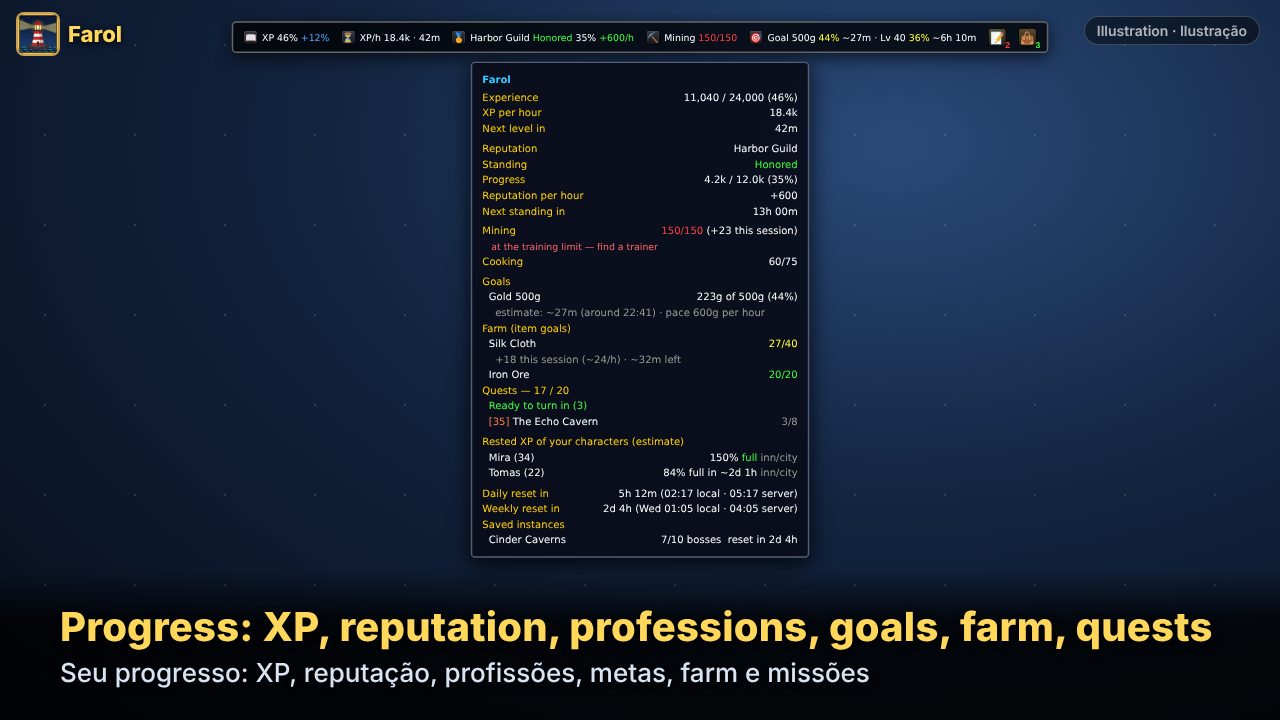
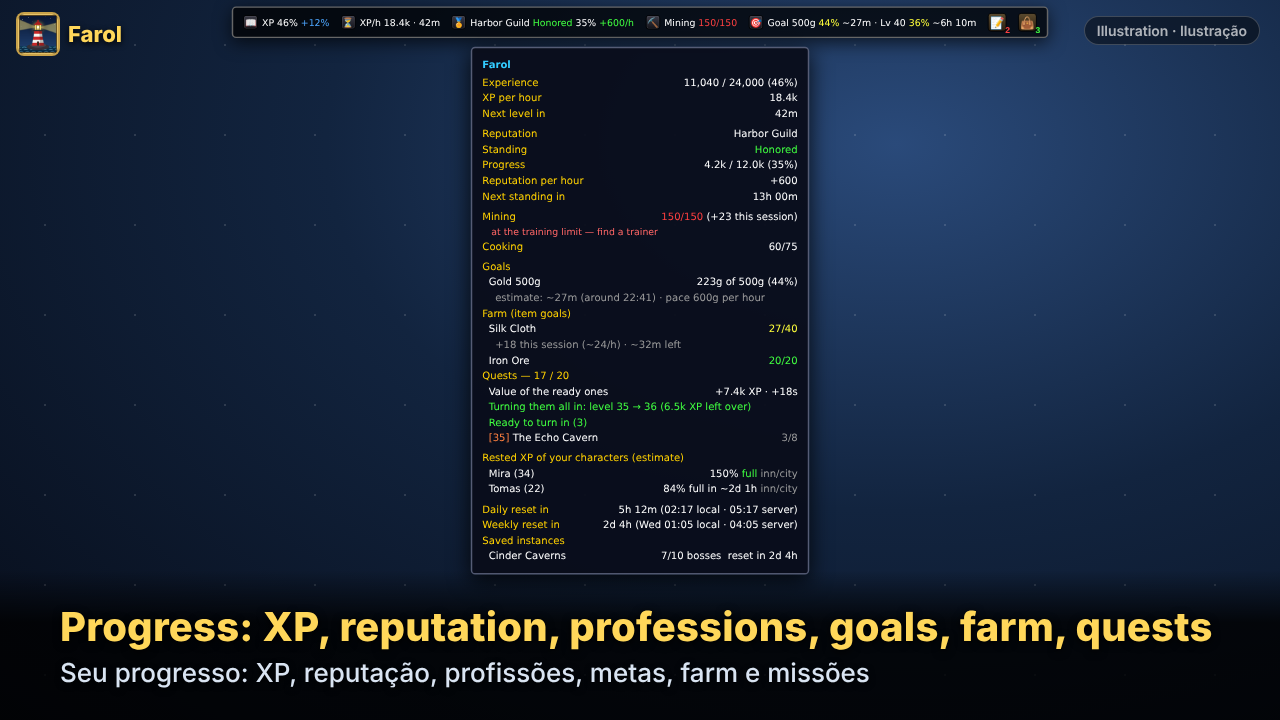
3.23.0: value of the ready quests
- New option (Warnings tab, off): the Quests item shows the XP of the quests ready to
  turn in, and its tooltip the total XP and gold, each reward (most XP first), whether
  turning them all in levels you up, and the XP of quests in progress.
- New optional warning (off): turning in the ready quests levels you up (once per level).
- Rewards read with GetQuestLogRewardXP/Money by quest ID (confirmed in WoW Forever).
- Warnings tab help strip moved down; image 08 updated; tests for values, level-up,
  warning, broken values, old client, English.

Claude-Session: https://claude.ai/code/session_01BGNd8jLBZJw5iNs8DwdX47

Changed region(s): [[0.1562, 0.0, 0.8438, 0.7944], [0.4688, 0.5806, 0.625, 0.7944]]

diff --git a/assets/curseforge/make_pages.py b/assets/curseforge/make_pages.py
@@ -238,6 +238,8 @@ ptip = """<div class="tip" style="width:470px"><div style="color:#33ccff;font-we
 <div class="row dim"><span>&nbsp;&nbsp;&nbsp; +18 this session (~24/h) · ~32m left</span><span></span></div>
 <div class="row"><span>&nbsp; Iron Ore</span><span class="g">20/20</span></div>
 <div class="k">Quests — 17 / 20</div>
+<div class="row"><span>&nbsp; Value of the ready ones</span><span>+7.4k XP · +18s</span></div>
+<div class="row"><span>&nbsp; <span class="g">Turning them all in: level 35 → 36 (6.5k XP left over)</span></span><span></span></div>
 <div class="row"><span>&nbsp; <span class="g">Ready to turn in (3)</span></span><span></span></div>
 <div class="row"><span>&nbsp; <span style="color:#ff8040">[35]</span> The Echo Cavern</span><span class="dim">3/8</span></div>
 <div style="height:6px"></div>

diff --git a/assets/curseforge-description.md b/assets/curseforge-description.md
@@ -14,7 +14,7 @@
 > **You decide: almost everything starts off.** Only the basics are on the first time (7 of 30 bar items: FPS, latency, coordinates, zone, Hearthstone, durability, gold; the durability, bags, talents, spell rank and profession warnings; the session summary in your own chat; the minimap button). **Every new feature arrives turned off** — updating never turns anything on by itself. Right-click the bar (or `/farol menu`) to choose; after an update, Farol lists what is new once and says where to turn it on.
 
 ### Info bar — pick what you see
-FPS · Latency · Memory · Coordinates · Zone · Speed · **Hearthstone: where it is bound & cooldown** · Durability · Bags · **Junk value (gray items)** · **Ammo & reagents (your limits)** · Gold (**+ total and rested XP of all your characters**) · Session gold · **Gold per hour** · XP & rested · **XP per hour & time to level** · **Reputation (standing, progress, rep/hour)** · **Professions (level / training limit)** · **Gold & level goals with a time estimate** · **Farm goals: items to gather, pace per hour & estimate** · **Quest log: how many fit, ready to turn in, warning before it fills up** · **Completed quests of each character** · **Dungeon & raid run log (time, XP, gold, loot, deaths)** · Clock (local or server) · **Daily & weekly reset countdown + saved instances (raid lockouts)** · **Daily & weekly tasks** · **Notes (notepad)** · Session time · Friends online · Guild online
+FPS · Latency · Memory · Coordinates · Zone · Speed · **Hearthstone: where it is bound & cooldown** · Durability · Bags · **Junk value (gray items)** · **Ammo & reagents (your limits)** · Gold (**+ total and rested XP of all your characters**) · Session gold · **Gold per hour** · XP & rested · **XP per hour & time to level** · **Reputation (standing, progress, rep/hour)** · **Professions (level / training limit)** · **Gold & level goals with a time estimate** · **Farm goals: items to gather, pace per hour & estimate** · **Quest log: how many fit, ready to turn in (and how much XP they give — enough to level up?), warning before it fills up** · **Completed quests of each character** · **Dungeon & raid run log (time, XP, gold, loot, deaths)** · Clock (local or server) · **Daily & weekly reset countdown + saved instances (raid lockouts)** · **Daily & weekly tasks** · **Notes (notepad)** · Session time · Friends online · Guild online
 
 - **Right-click** the bar (or `/farol menu`): a **tabbed menu** — Bar (items in groups), Warnings, Tools, General — to tick the items you want, and **choose their order** with [▲]/[▼] arrows. **Presets** (Basic, Leveling, Gold & farm, Dungeons) set up the bar in one click (with Undo); a **gear** next to an item opens its settings; a strip explains the item under the mouse.
 - **Up to 3 bars**, each with its own items, position, appearance and order (menu → Bar 2 / Bar 3 → Show).
@@ -77,7 +77,7 @@ English and Brazilian Portuguese (follows your client, or `/farol lang en|pt`).
 > **Você decide: quase tudo vem desligado.** Na primeira vez só o básico vem ligado (7 de 30 itens da barra: FPS, latência, coordenadas, zona, Pedra de Regresso, durabilidade, ouro; os avisos de durabilidade, bolsas, talentos, graus de magia e profissões; o resumo da sessão no seu próprio chat; o botão do minimapa). **Toda função nova chega desligada** — atualizar nunca liga nada sozinho. Clique com o botão direito na barra (ou `/farol menu`) para escolher; depois de uma atualização, o Farol lista as novidades uma vez e diz onde ligar.
 
 ### Barra de informações — você escolhe o que aparece
-FPS · Latência · Memória · Coordenadas · Zona · Velocidade · **Pedra de Regresso: onde está vinculada e recarga** · Durabilidade · Bolsas · **Valor do lixo (itens cinzentos)** · **Munição e reagentes (seus limites)** · Ouro (**+ total e descanso de todos os seus personagens**) · Ouro da sessão · **Ouro por hora** · XP e descansado · **XP por hora e tempo até o próximo nível** · **Reputação (nível, progresso, rep/hora)** · **Profissões (nível / limite do treinamento)** · **Metas de ouro e de nível com estimativa de tempo** · **Metas de farm: itens para juntar, ritmo por hora e estimativa** · **Diário de missões: quantas cabem, prontas para entregar e aviso antes de encher** · **Missões concluídas de cada personagem** · **Registro de masmorras e raides (tempo, XP, ouro, saques, mortes)** · Horário (local ou do servidor) · **Contagem até o reset diário e semanal + instâncias salvas (bloqueios de raide)** · **Tarefas diárias e semanais** · **Anotações (bloco de notas)** · Tempo de sessão · Amigos online · Guilda online
+FPS · Latência · Memória · Coordenadas · Zona · Velocidade · **Pedra de Regresso: onde está vinculada e recarga** · Durabilidade · Bolsas · **Valor do lixo (itens cinzentos)** · **Munição e reagentes (seus limites)** · Ouro (**+ total e descanso de todos os seus personagens**) · Ouro da sessão · **Ouro por hora** · XP e descansado · **XP por hora e tempo até o próximo nível** · **Reputação (nível, progresso, rep/hora)** · **Profissões (nível / limite do treinamento)** · **Metas de ouro e de nível com estimativa de tempo** · **Metas de farm: itens para juntar, ritmo por hora e estimativa** · **Diário de missões: quantas cabem, prontas para entregar (e quanto XP elas dão — dá para subir de nível?), aviso antes de encher** · **Missões concluídas de cada personagem** · **Registro de masmorras e raides (tempo, XP, ouro, saques, mortes)** · Horário (local ou do servidor) · **Contagem até o reset diário e semanal + instâncias salvas (bloqueios de raide)** · **Tarefas diárias e semanais** · **Anotações (bloco de notas)** · Tempo de sessão · Amigos online · Guilda online
 
 - **Clique direito** na barra (ou `/farol menu`): um **menu em abas** — Barra (itens em grupos), Avisos, Ferramentas, Geral — para marcar os itens que quiser e **escolher a ordem** com as setas [▲]/[▼]. **Pacotes prontos** (Básico, Upando, Ouro e farm, Masmorras) montam a barra com um clique (com Desfazer); a **engrenagem** ao lado de um item abre a configuração dele; uma faixa explica o item sob o mouse.
 - **Até 3 barras**, cada uma com itens, posição, aparência e ordem próprios (menu → Barra 2 / Barra 3 → Mostrar).

diff --git a/CLAUDE.md b/CLAUDE.md
@@ -111,6 +111,12 @@ personalizável, alarmes, janela de saques e avisos. Publicado no CurseForge: <h
   `GetQuestObjectives`, `GetMaxNumQuestsCanAccept`); antigos `GetQuestLogTitle` — a ordem muda: quando o 4º valor é
   número (grupo sugerido do 3.3.5a), categoria/fechada/completa andam uma posição; completa = 1 (pronta) ou -1 (falhou).
   Limite: `GetMaxNumQuestsCanAccept` → `MAX_QUESTLOGQUESTS` → 20. Nunca abrir categorias fechadas (só avisar no tooltip).
+- **Valor das missões prontas (3.23):** `GetQuestLogRewardXP(id)` / `GetQuestLogRewardMoney(id)` (cobre) pelo ID de cada
+  missão do diário — confirmado no WoW Forever com `/run` (ex.: 5350 XP, 1800 cobre; sem moedas = 0). `Quests.Value`
+  soma as prontas e compara com `UnitXPMax − UnitXP` ("nível 23 → 24 (sobram X XP)"; o XP do nível seguinte o jogo não
+  informa, então não mostramos %). Opções `warnings.questValue` (barra/tooltip) e `warnings.questLevel` (aviso 1x por
+  nível), ambas desligadas. Clientes antigos: sem recompensa por ID (pedir a recompensa exigiria selecionar a missão
+  no diário, `SelectQuestLogEntry`, proibido).
 - Pedra de Regresso: item 6948; lugar com `GetBindLocation`; recarga com `C_Container.GetItemCooldown` (modernos) ou
   `GetItemCooldown` (antigos) — duração ≤ 1,5 s é a recarga global e não conta. Sem lugar informado, o item some da barra.
 - Item da barra **ausente** nos dados salvos (item novo para quem já usa) vem **desligado**; o padrão de `ITEM_DEFAULTS`
@@ -275,7 +281,7 @@ assets/             ícones, texto do CurseForge, imagens de divulgação (asset
 ## Testes
 
 ```
-lua5.1 tests/run.lua        # ~730 testes (2 passadas); deve terminar com "0 failed"
+lua5.1 tests/run.lua        # ~740 testes (2 passadas); deve terminar com "0 failed"
 ```
 
 - **Duas passadas (3.18):** a 1ª com o simulador "de livro"; a 2ª, **forever-real** (`Mock.REAL`), com reino `""` e

diff --git a/CHANGELOG.md b/CHANGELOG.md
@@ -2,6 +2,16 @@
 
 All notable changes to Farol. Versions follow the `## Version:` line of the `.toc` files.
 
+## 3.23.0 — Value of the ready quests
+- New option **XP and gold of ready ones** (Warnings tab, off by default): the Quests bar item shows the XP of the
+  quests ready to turn in (`5 ready (+7.4k XP)`) and its tooltip shows the total XP and gold, each ready quest with
+  its reward (most XP first), whether turning them all in levels you up ("level 23 → 24 (6.5k XP left over)", or how
+  much is missing) and the XP of the quests in progress.
+- New optional warning **Ready ones level you up** (off by default): once per level.
+- Rewards read with `GetQuestLogRewardXP` / `GetQuestLogRewardMoney` for each quest of the log (modern clients),
+  confirmed in WoW Forever with a `/run` in game. Read-only; nothing is sent. No level-up line at max level.
+- Warnings tab: the help strip moved down to make room. Image 08 updated. 744 tests (2 passes).
+
 ## 3.22.0 — Notepad
 - New **notepad** for the whole account (`/farol notes`, Menu > Tools > Notes...): up to 10 notes, each with a title
   (up to 40 letters) and a multi-line text (up to 500 letters), saved as you type, with a **done** checkbox. Done

diff --git a/README.pt-BR.md b/README.pt-BR.md
@@ -340,6 +340,13 @@ cheio). O tooltip lista primeiro as **prontas para entregar** e depois as **em a
 (`/farol aviso prontas on`; no máximo a cada 5 minutos). O Farol só **lê** o diário: nunca aceita, entrega, abandona ou
 compartilha missões, e não abre categorias fechadas do diário. `/farol aviso status` mostra o que foi lido.
 
+**Quanto valem as missões prontas (desde a 3.23, desligado):** marque **XP e ouro das prontas** na aba Avisos e a barra
+mostra `Missões 8/40 · 5 prontas (+7.4k XP)`; o tooltip ganha o total de XP e ouro das prontas, cada pronta com a sua
+recompensa (as que mais dão XP primeiro), **"Entregando todas: nível 23 → 24 (sobram 6.5k XP)"** (ou quanto XP ainda
+falta) e o XP das missões em andamento. As recompensas vêm do próprio jogo, para cada missão do diário (clientes
+modernos). Aviso opcional **Prontas que sobem de nível** (desligado): uma vez por nível, quando entregar as prontas já
+basta para subir de nível.
+
 ## Missões concluídas
 
 A janela **Missões concluídas** (Menu > Ferramentas, ou `/farol concluidas`) mostra as missões que cada um dos **seus**

diff --git a/README.md b/README.md
@@ -335,6 +335,13 @@ more"). Two optional warnings (off) in the **Warnings** tab: **quest log almost 
 (`/farol warn ready on`; at most every 5 minutes). Farol only **reads** the quest log: it never accepts, turns in,
 abandons or shares quests, and never opens collapsed categories. `/farol warn status` shows what it read.
 
+**Value of the ready quests (since 3.23, off by default):** tick **XP and gold of ready ones** in the Warnings tab and
+the bar shows `Quests 8/40 · 5 ready (+7.4k XP)`; the tooltip adds the total XP and gold of the ready quests, each
+ready quest with its own reward (most XP first), **"Turning them all in: level 23 → 24 (6.5k XP left over)"** (or how
+much XP is still missing) and the XP of the quests still in progress. The rewards come from the game itself for each
+quest in your log (modern clients). Optional warning **Ready ones level you up** (off): once per level, when turning
+in the ready quests is already enough to level up.
+
 ## Completed quests
 
 The **Completed quests** window (Menu > Tools, or `/farol completed`) shows the quests each of **your** characters has
